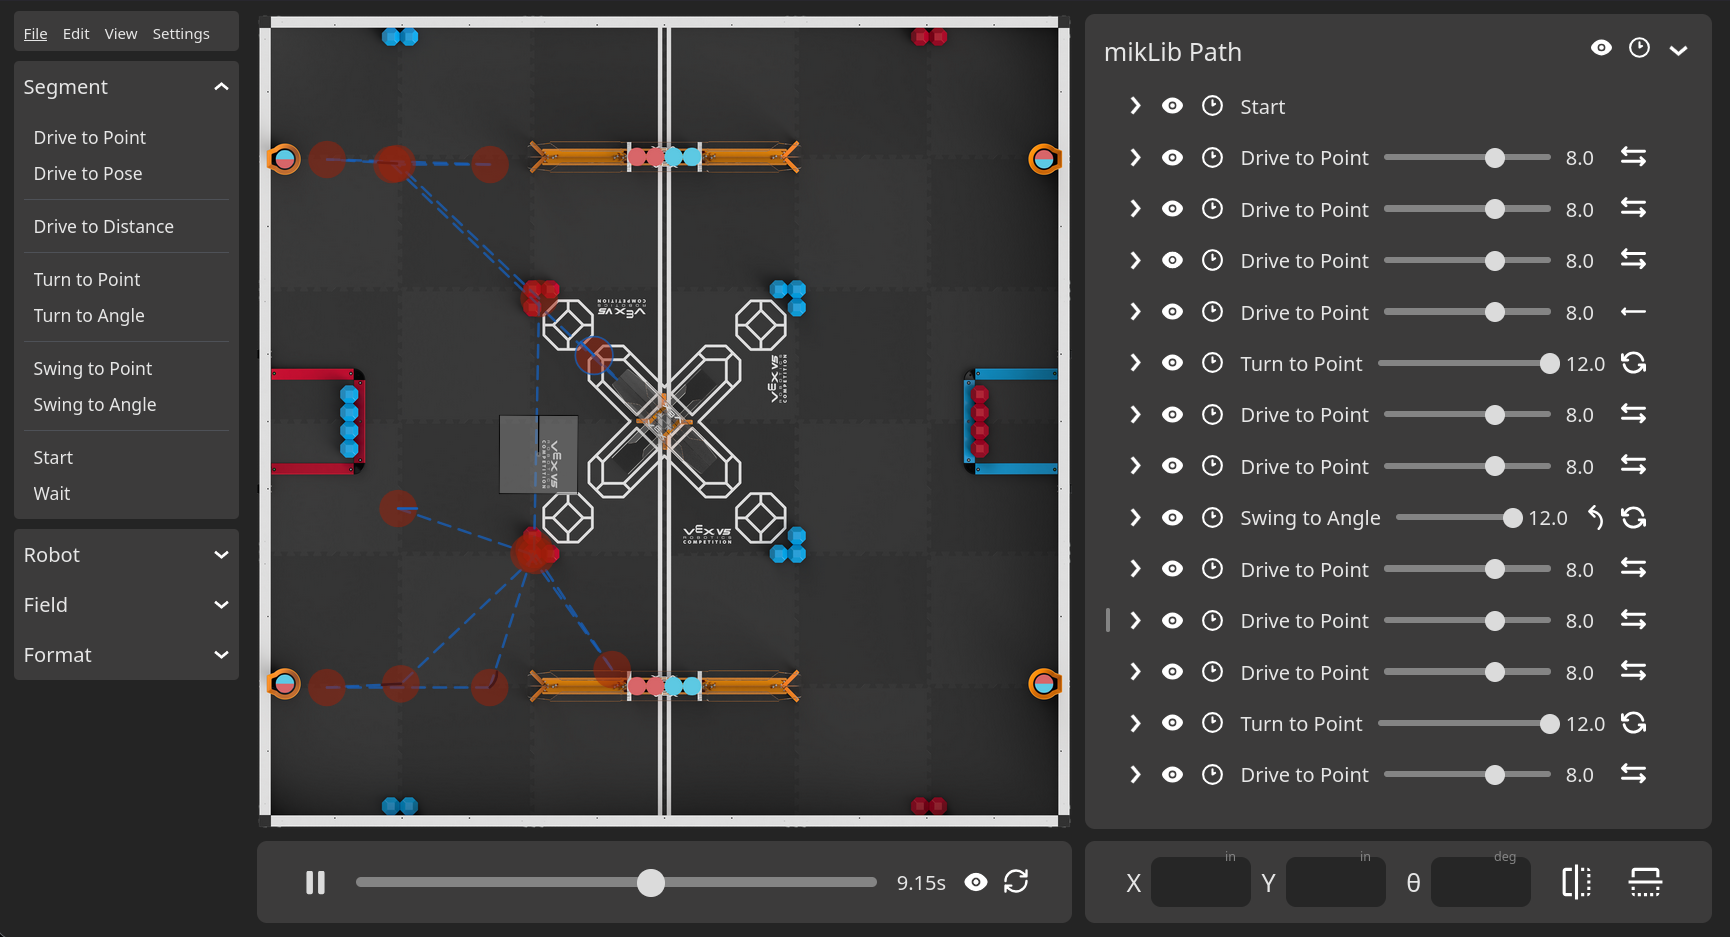
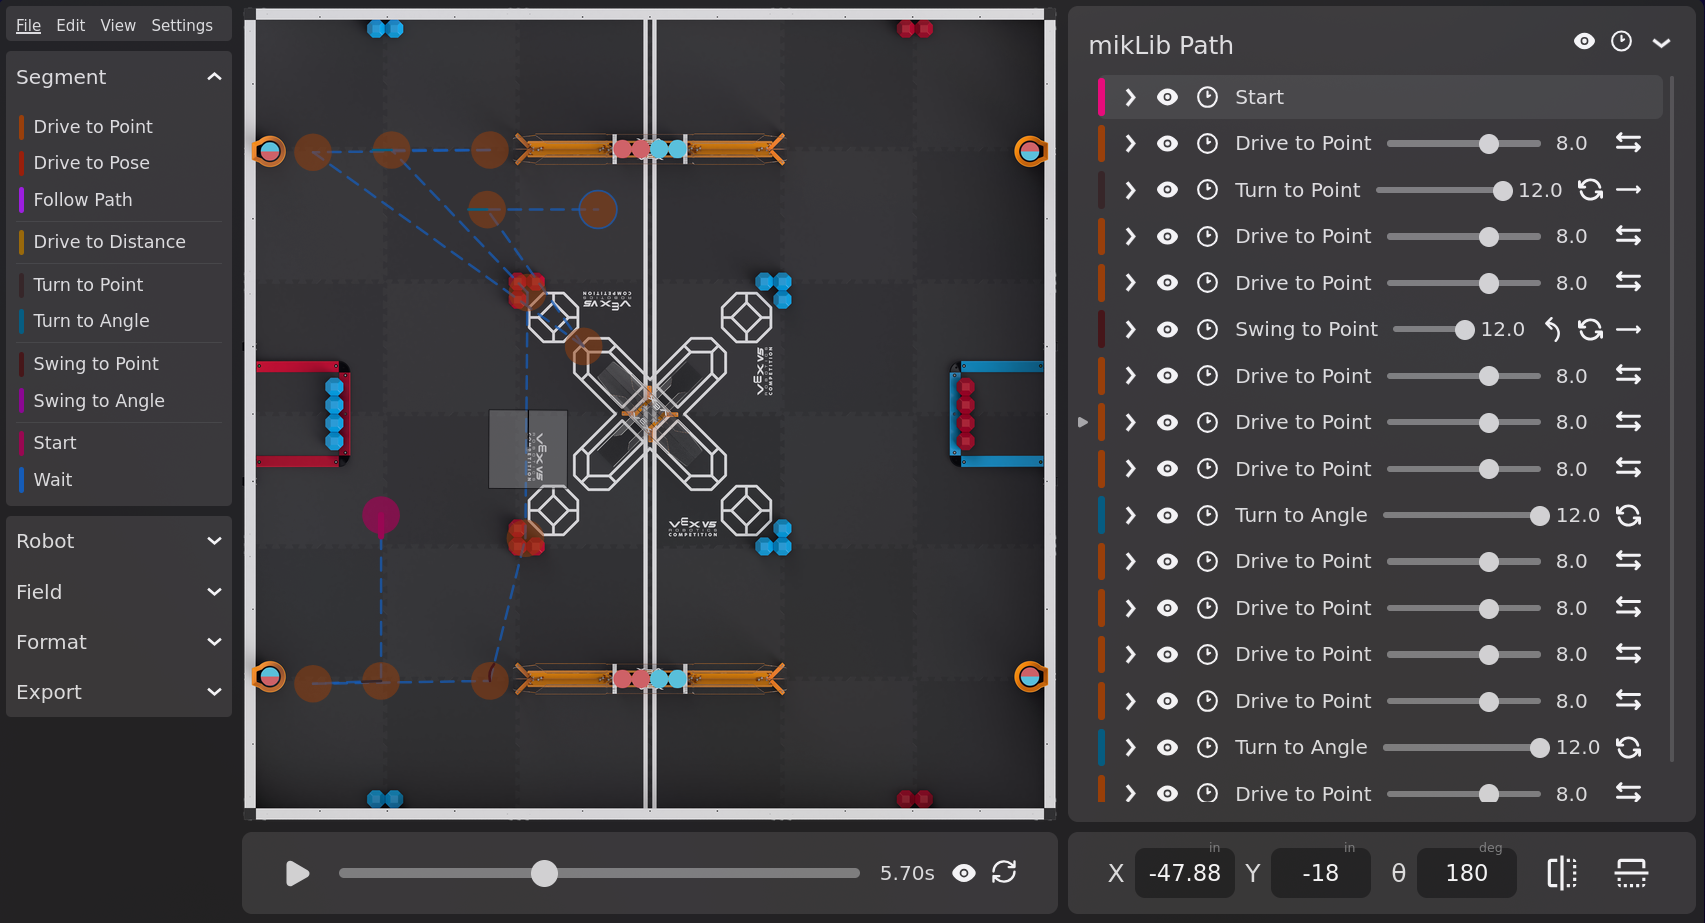
Docs Update

diff --git a/docs/docusaurus.config.ts b/docs/docusaurus.config.ts
@@ -59,7 +59,9 @@ const config: Config = {
 
   themeConfig: {
     // Social card shown in link previews (Google, Discord, Twitter, etc.)
-    image: 'img/docusaurus-social-card.png',
+    // Absolute URL so it reuses the app's card at the deploy root instead of
+    // duplicating the image under /docs/
+    image: 'https://mikgen.com/mikGen_display.png',
     colorMode: {
       defaultMode: 'dark',
       disableSwitch: true,
